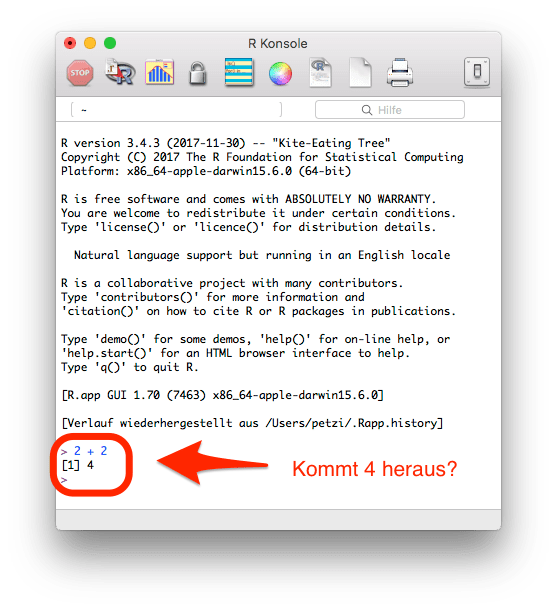
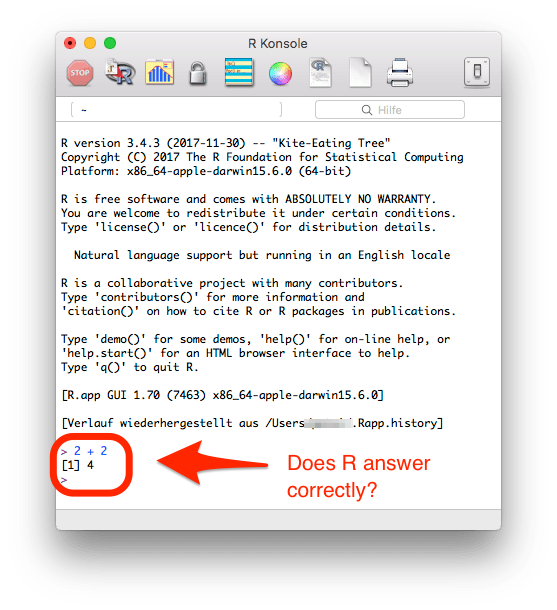
publish slideshow "install-r-mac.html"

Changed region(s): [[0.5189, 0.7475, 0.8241, 0.841], [0.5494, 0.6852, 0.6409, 0.7164]]

diff --git a/static/slide/install-r-mac.html b/static/slide/install-r-mac.html
@@ -5,7 +5,7 @@
     <meta charset="utf-8">
     <meta name="author" content="Peter Baumgartner" />
     <link href="libs/remark-css/default.css" rel="stylesheet" />
-    <link href="libs/remark-css/default-fonts.css" rel="stylesheet" />
+    <link rel="stylesheet" href="my-remark.css" type="text/css" />
   </head>
   <body>
     <textarea id="source">
@@ -13,24 +13,102 @@ class: center, middle, inverse, title-slide
 
 # Install R for OS X (Mac)
 ### Peter Baumgartner
-### 2018/07/22 (updated: 2018-07-22)
+### 2018-01-02 (updated: 2018-07-22)
 
 ---
 
 
 
 
+layout: true
+class: inverse, middle, center
 
-class: inverse, middle
+---
 
+# Fresh installation of R
 
-.center[ # Fresh installation of R]
-
+.left[
 + If you have already installed (an older version of) R: Do not follow this presentation! Instead look up this [apple stackexchange answer](https://www.quora.com/What-is-the-easiest-way-to-update-R-in-OSX/answer/Kshira-Saagar).
 
 + To download R follow the link of the [CRAN website](https://cran.r-project.org/) to the installation page for OS X (Mac).
+]
 
-.center[![:scale 75%](/img/r-installation-mac-EN/1-1_Choose-Mac-Download-min.png)]
+.center[![:scale 65%](/img/r-installation-mac-EN/1-1_Choose-Mac-Download-min.png)]
+
+&lt;hr&gt;
+
+**You prefer videos? Then look at the [RStudio Video](https://vimeo.com/203516510) [1:30]**
+---
+
+# Download lastest R Version
+
+.left[
++ Download the lastest R Version (here: R-3.4-3, January 2018)
++ Read the text on the right side of the package link of the latest release.
++ If your are new to R: I suggest not yet to download XQuartz and the compilers for Clang and Fortran.
+]
+
+.center[![:scale 75%](/img/r-installation-mac-EN/1-2_R-MacOS-Download-min.png)]
+
+---
+
+# Store R package file to your hard disk
+
+.center[Choose a directory and safe the file.]
+
+.center[![](/img/r-installation-mac-EN/1-3_R-Package-save-min.png)]
+
+---
+
+# Install R on your computer
+
+.left[
++ Open the saved R package file in your operating system
++ This opens the installation program
++ Follow the instructions: Click the Continue Button
+]
+
+.center[![:scale 85%](/img/r-installation-mac-EN/1-4_MacOS-Installation-R-min.png)]
+
+# Check installation (1)
+
+.left[
++ Go to your application folder and start the R.app
++ This opens the R console window
++ Check the version number
+]
+
+.center[![:scale 85%](/img/r-installation-mac-EN/1-5_MacOS-Installation-R-min.png)]
+
+---
+
+# Check installation (2)
+
+.left[
++ Input as a test example .red[`[2 + 2]&lt;RETURN&gt;`] and 
++ If a new line appears with .red[`[1] 4`]: then… 
+]
+
+.center[![:scale 50%](/img/r-installation-mac-EN/1-6_MacOS-R-App-min.png)]
+
+---
+
+# Congratulation!
+
+.left[
+You can now follow the next slideshow -&gt; Install RStudio (not yet finished)
+
+[RStudio](https://www.rstudio.com/) is a sophisticated Integrated Development Environment (IDE) Almost everyone uses RStudio nowadays.
+
+There is a [short video](https://vimeo.com/97166163) (1:30) to show you what’s inside the RStudio IDE!
+
+Install it now - it is open source and free!
+]
+
+---
+class: middle, center
+
+&lt;iframe width="560" height="315" src="https://vimeo.com/97166163" frameborder="0" allow="encrypted-media" allowfullscreen&gt;&lt;/iframe&gt;
     </textarea>
 <script src="https://remarkjs.com/downloads/remark-latest.min.js"></script>
 <script src="macros.js"></script>

diff --git a/static/slide/my-remark.css b/static/slide/my-remark.css
@@ -1,0 +1,8 @@
+/*************************************************
+ *  Here are my changes for remark.js
+ **************************************************/
+
+ .red {color:red;}
+ .yellow {color:yellow;}
+ .green {color:green;}
+ .blue {color:blue;}
